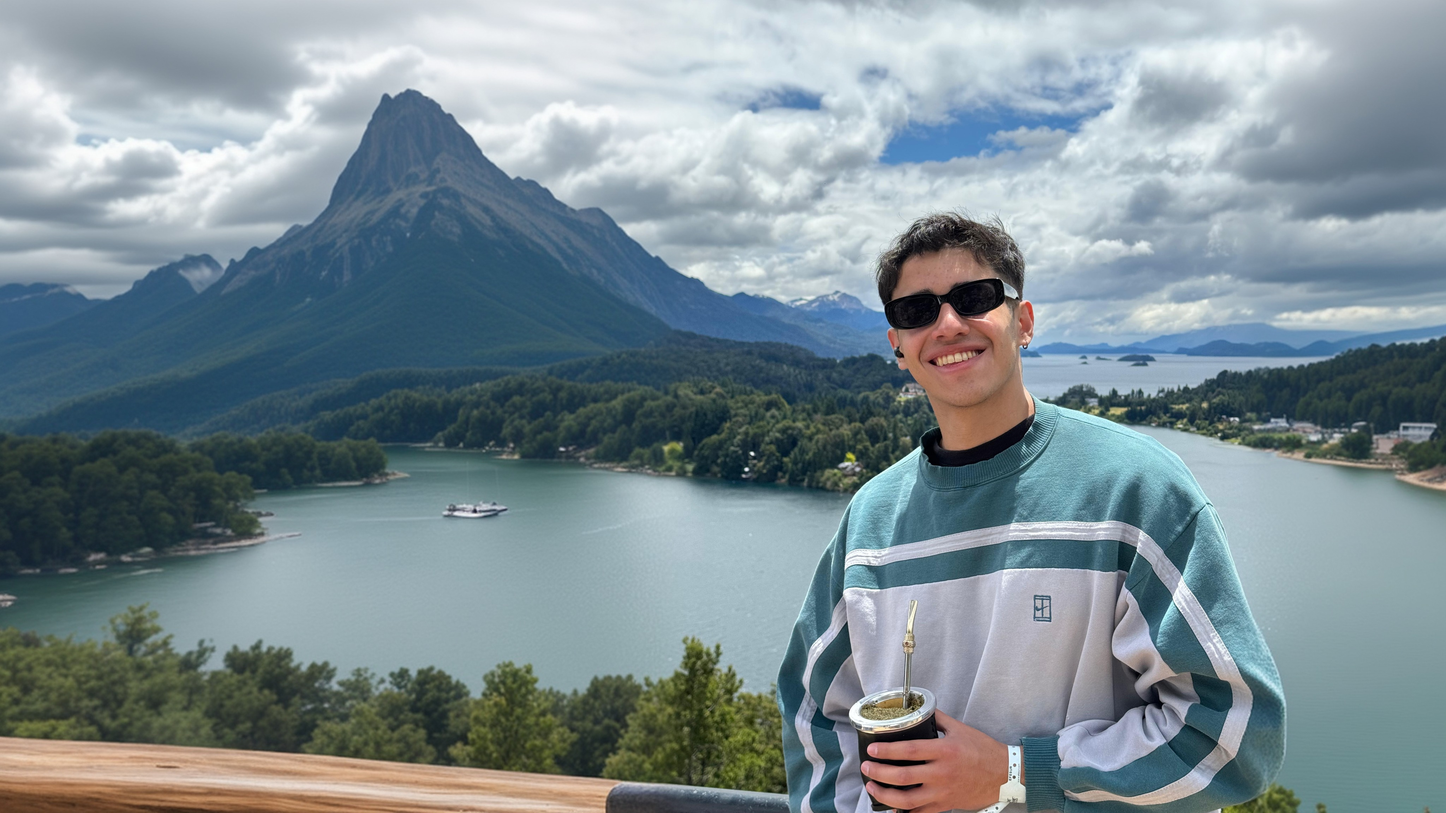
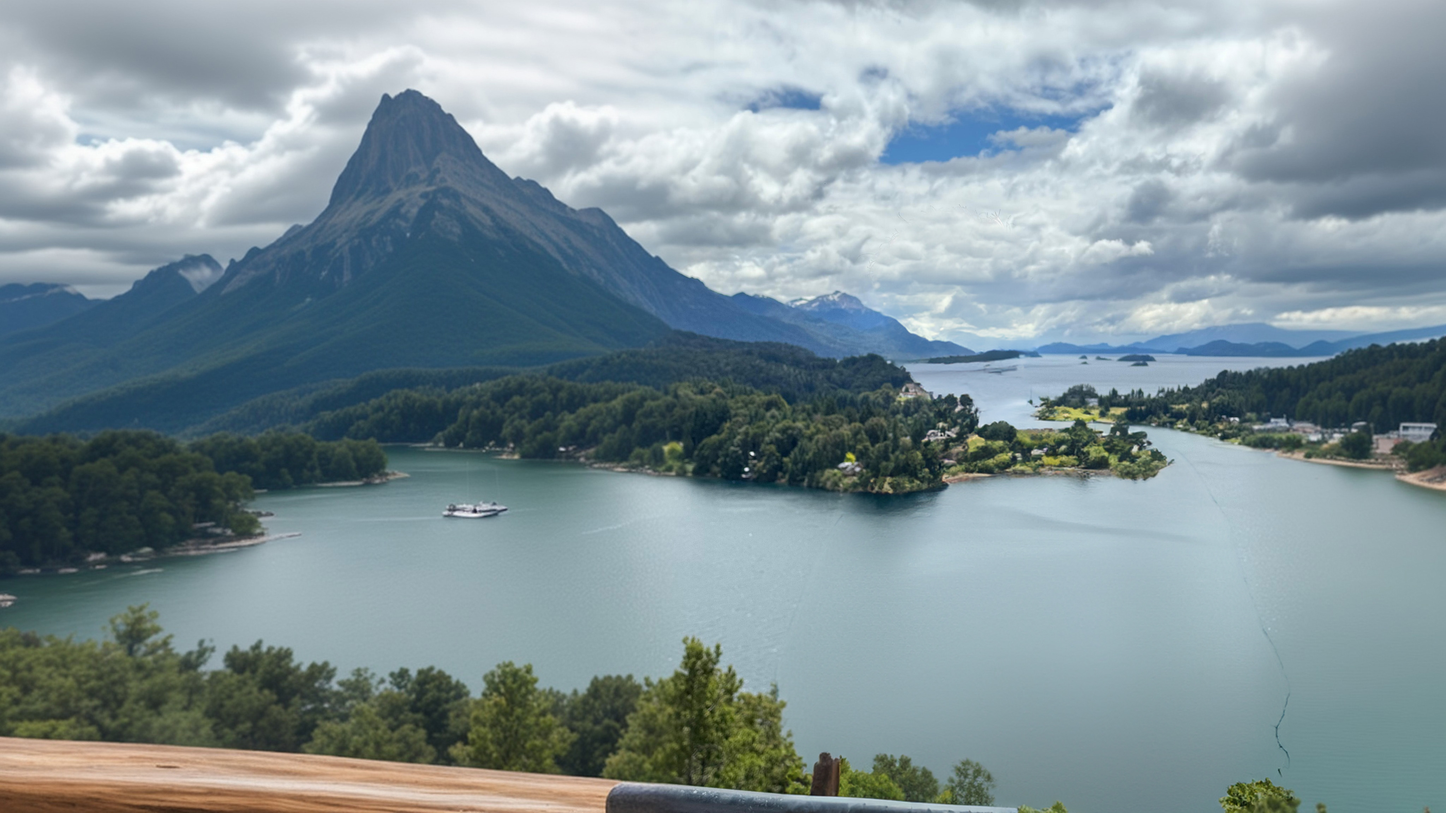
about me responsive :DDD

Changed region(s): [[0.5312, 0.25, 0.9062, 1.0]]

diff --git a/src/components/AboutMeSection.jsx b/src/components/AboutMeSection.jsx
@@ -1,9 +1,11 @@
 import {motion, useScroll, useTransform} from "framer-motion";
-import  {useRef} from "react";
+import {useRef} from "react";
 import '/src/assets/styles/LandingPage.css';
 import {isMobile} from "react-device-detect";
 import mewhitoutfondo from "../assets/images/mewhitoutfondo.png";
 import meexpand from "../assets/images/meexpand.jpg";
+import me from "../assets/images/me.jpg";
+
 
 const AboutMeSection = () => {
     const FirstRef = useRef(null);
@@ -34,54 +36,84 @@ const AboutMeSection = () => {
 
         <section className={'AboutMeSection md:h-[140vh]'}>
             <div className='h-full w-full relative grid place-items-center overflow-hidden '>
-                <div className={'absolute inset-0 z-0 h-full'} style={{
-                    backgroundImage: {meexpand},
-                    backgroundSize: "cover",
+                {isMobile ? (
+                    <>
+                        <div className="absolute inset-0 z-0 h-full w-[150vw] transform -translate-x-[50vw]">
+                            <img src={meexpand} alt="" className="h-full w-full bg-cover object-cover"/>
+                        </div>
 
-                }}>
-                    <img src={meexpand} alt="" className={'h-full  w-full bg-cover object-cover'}/>
-                </div>
-                <div className={'absolute inset-0 z-3 h-[140vh]'} style={{
-                    backgroundImage: {mewhitoutfondo},
-                    backgroundSize: "cover",
-                }}>
-                    <img src={mewhitoutfondo} alt="" className={'h-full w-full object-cover'}/>
-                </div>
+                        <div className="absolute inset-0 h-full w-[150vw] transform -translate-x-[50vw]">
+                            <img src={mewhitoutfondo} alt="" className="h-full w-full object-cover"/>
+                        </div>
+                    </>
+                ) : (
+                    <>
+                        <div className={'absolute inset-0 z-0 h-full'} style={{}}>
+                        <img src={meexpand} alt="" className={'h-full w-full bg-cover object-cover'}/>
+                        </div>
+
+                        <div className={'absolute inset-0 z-3  h-full'} style={{}}>
+                            <img src={mewhitoutfondo} alt="" className={'h-full w-full bg-cover object-cover'}/>
+                        </div>
+                    </>
+                )}
                 <div className={'text-start relative align-top row flex col-12 left-0 z-2'}>
                     {isMobile ? (
-                        <h1 className="AboutMeTitle  ColorBlack">ABOUT</h1>
+                        <h1 className="AboutMeTitle text-center">ABOUT</h1>
                     ) : (
                         <motion.div ref={FirstRef} style={{x: x1}}>
-                            <h1 className="AboutMeTitle ColorBlack ">ABOUT</h1>
+                            <h1 className=" AboutMeTitle ">ABOUT</h1>
                         </motion.div>)}
                 </div>
                 <div className={'z-2 text-center row relative flex col-12 -mt-48'}>
                     {isMobile ? (
-                        <h1 className="AboutMeTitle text-center ColorWhite">ME</h1>
+                        <h1 className=" text-center  MeTitle">ME</h1>
                     ) : (
                         <motion.div ref={SecondRef} style={{x: x2}}>
-                            <h1 className="AboutMeTitle ColorWhite">ME</h1>
+                            <h1 className="AboutMeTitle ColorWhite MeTitle">ME</h1>
                         </motion.div>
                     )}
                 </div>
-                <div className={'justify-center relative flex col-12 z-2 -mt-48'}>
-                    <motion.div ref={ThirdRef} style={{x: x3}} className={'MeTextContainer'}>
-                        <h1 className="MeText FontKaisei">Hello there! I’m Lautaro Velez, a web developer borned in
-                            Córdoba,
-                            Argentina.</h1>
-                        <h1 className="MeText FontEmbed mt-2">
-                            I have a solid knowledge in React, JavaScript, HTML, CSS, and more.
-                        </h1>
-                        <h1 className="MeText FontKaisei mt-2">
-                            I consider myself a very creative and a hard-working person who is always trying to
-                            learn
-                            something new.
-                        </h1>
-                        <h1 className="MeText FontKaisei mt-2">Extra: I'm 19 years old, I love working out, cars,
-                            music,
-                            and watching rom-coms!</h1>
-                    </motion.div>
-                </div>
+                {isMobile ? (
+
+                    <div className={' relative flex col-12  '}>
+                        <div className={'MeTextContainerMobile z-2'}>
+                            <h1 className="MeText FontKaisei">Hello there! I’m Lautaro Velez, a web developer borned in
+                                Córdoba,
+                                Argentina.</h1>
+                            <h1 className="MeText FontEmbed mt-2">
+                                I have a solid knowledge in React, JavaScript, HTML, CSS, and more.
+                            </h1>
+                            <h1 className="MeText FontKaisei mt-2">
+                                I consider myself a very creative and a hard-working person who is always trying to
+                                learn
+                                something new.
+                            </h1>
+                            <h1 className="MeText FontKaisei mt-2">Extra: I'm 19 years old, I love working out, cars,
+                                music,
+                                and watching rom-coms!</h1>
+                        </div>
+                    </div>
+
+                ) : (
+                    <div className={'justify-center relative flex col-12 z-2 md:-mt-48'}>
+                        <motion.div ref={ThirdRef} style={{x: x3}} className={'MeTextContainer'}>
+                            <h1 className="MeText FontKaisei">Hello there! I’m Lautaro Velez, a web developer borned in
+                                Córdoba,
+                                Argentina.</h1>
+                            <h1 className="MeText FontEmbed mt-2">
+                                I have a solid knowledge in React, JavaScript, HTML, CSS, and more.
+                            </h1>
+                            <h1 className="MeText FontKaisei mt-2">
+                                I consider myself a very creative and a hard-working person who is always trying to
+                                learn
+                                something new.
+                            </h1>
+                            <h1 className="MeText FontKaisei mt-2">Extra: I'm 19 years old, I love working out, cars,
+                                music,
+                                and watching rom-coms!</h1>
+                        </motion.div>
+                    </div>)}
             </div>
         </section>
     )

diff --git a/src/pages/landing/Landing.jsx b/src/pages/landing/Landing.jsx
@@ -31,12 +31,9 @@ const LandingPage = () => {
     return (
         <>
             <div className={'w-screen'}>
-                <HorizontalScrollSection/>
+
                 <AboutMeSection/>
-                <WorkSection/>
-                <Section Component={<WhyMeSection/>}/>
-                <TechnologiesSection/>
-                <Footer/>
+
             </div>
 
         </>
